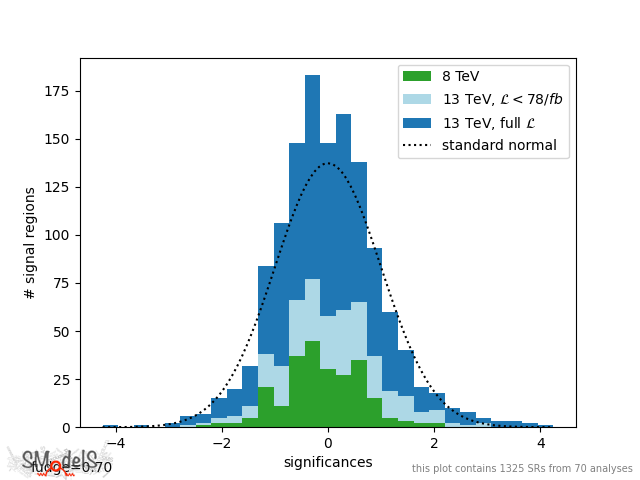
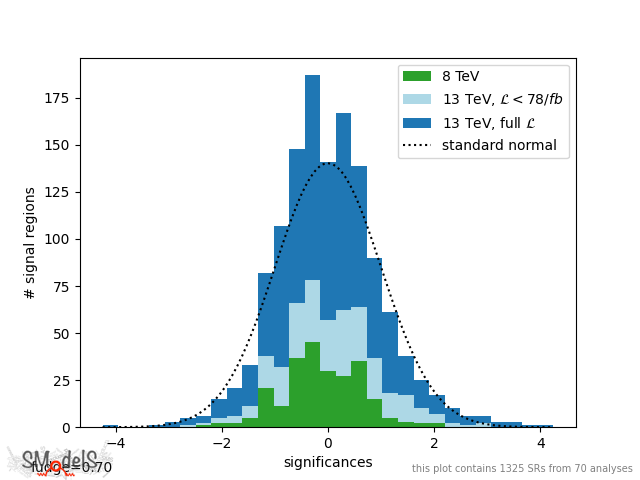
updated

diff --git a/docs/ListOfAnalyses312fastWithSuperseded.md b/docs/ListOfAnalyses312fastWithSuperseded.md
@@ -4,7 +4,7 @@ The list has been created from the database version `3.1.2fast.`
 Results from FastLim are included. There is also an  [sms dictionary](SmsDictionary312fast) and a [validation page](Validation312fast).
 Link to list of results [without superseded and fastlim results](ListOfAnalyses312fast).
 
-<p align='center'><img src='../validation/312fast/significancesiss.png?1779362420.2360446' alt='plot of significances' width='500' /><br></p>
+<p align='center'><img src='../validation/312fast/significancesiss.png?1779878661.902354' alt='plot of significances' width='500' /><br></p>
 
 ###### Plot: Significances with respect to the Standard Model hypothesis, for all signal regions [(1)](#A1). A standard normal distribution is expected if no new physics is in the data. New physics would manifest itself as an overabundance of large (positive) significances.
 
@@ -88,8 +88,8 @@ In total, we have results from 34 ATLAS and 23 CMS 8 TeV searches.
 | [CMS-SUS-21-007](http://cms-results.web.cern.ch/cms-results/public-results/publications/SUS-21-007/index.html)<a name="CMS-SUS-21-007"></a> | 1 l + top- or W-tag | 138.0 | [T1tttt](SmsDictionary312fast#T1tttt), [T5WW](SmsDictionary312fast#T5WW) | | [&#x1F517;](https://smodels.github.io/docs/Validation312fast#CMS-SUS-21-007_ul) |  |  |  |
 | [CMS-SUS-21-002](http://cms-results.web.cern.ch/cms-results/public-results/publications/SUS-21-002/)<a name="CMS-SUS-21-002"></a> | hadr. EWK | 137.0 | [TChiWH](SmsDictionary312fast#TChiWH), [TChiWW](SmsDictionary312fast#TChiWW), [TChiWZ](SmsDictionary312fast#TChiWZ), [TChiZH](SmsDictionary312fast#TChiZH) | | [&#x1F517;](https://smodels.github.io/docs/Validation312fast#CMS-SUS-21-002_ul) | [&#x1F517;](https://smodels.github.io/docs/Validation312fast#CMS-SUS-21-002_ul) | [&#x1F517;](https://smodels.github.io/docs/Validation312fast#CMS-SUS-21-002_em) | slv1 |
 | [CMS-EXO-20-008](https://cms-results.web.cern.ch/cms-results/public-results/publications/EXO-20-008/index.html)<a name="CMS-EXO-20-008"></a> | di-b resonance | 138.0 | [TRV1bb](SmsDictionary312fast#TRV1bb) | | [&#x1F517;](https://smodels.github.io/docs/Validation312fast#CMS-EXO-20-008_ul) | [&#x1F517;](https://smodels.github.io/docs/Validation312fast#CMS-EXO-20-008_ul) |  |  |
-| [CMS-SUS-20-004](http://cms-results.web.cern.ch/cms-results/public-results/publications/SUS-20-004/)<a name="CMS-SUS-20-004"></a> | 2 h(b b), EWK | 137.0 | [T5HH](SmsDictionary312fast#T5HH), [TChiHH](SmsDictionary312fast#TChiHH) | | [&#x1F517;](https://smodels.github.io/docs/Validation312fast#CMS-SUS-20-004_ul) | [&#x1F517;](https://smodels.github.io/docs/Validation312fast#CMS-SUS-20-004_ul) | [&#x1F517;](https://smodels.github.io/docs/Validation312fast#CMS-SUS-20-004_em) | slv2 |
 | [CMS-EXO-20-004](http://cms-results.web.cern.ch/cms-results/public-results/publications/EXO-20-004/)<a name="CMS-EXO-20-004"></a> | monojet | 137.0 | [TChiISR](SmsDictionary312fast#TChiISR), [TChiWISRll](SmsDictionary312fast#TChiWISRll), [TChiWWISRqq](SmsDictionary312fast#TChiWWISRqq), [TChiZISRll](SmsDictionary312fast#TChiZISRll), [TChiZISRqq](SmsDictionary312fast#TChiZISRqq), [TRS1](SmsDictionary312fast#TRS1), [TRV1](SmsDictionary312fast#TRV1), [TRV1nunu](SmsDictionary312fast#TRV1nunu) | |  |  | [&#x1F517;](https://smodels.github.io/docs/Validation312fast#CMS-EXO-20-004_em) | slv1 |
+| [CMS-SUS-20-004](http://cms-results.web.cern.ch/cms-results/public-results/publications/SUS-20-004/)<a name="CMS-SUS-20-004"></a> | 2 h(b b), EWK | 137.0 | [T5HH](SmsDictionary312fast#T5HH), [TChiHH](SmsDictionary312fast#TChiHH) | | [&#x1F517;](https://smodels.github.io/docs/Validation312fast#CMS-SUS-20-004_ul) | [&#x1F517;](https://smodels.github.io/docs/Validation312fast#CMS-SUS-20-004_ul) | [&#x1F517;](https://smodels.github.io/docs/Validation312fast#CMS-SUS-20-004_em) | slv2 |
 | [CMS-SUS-20-002](http://cms-results.web.cern.ch/cms-results/public-results/publications/SUS-20-002/index.html)<a name="CMS-SUS-20-002"></a> | stop combination | 137.0 | [T2tt](SmsDictionary312fast#T2tt), [T2ttoff](SmsDictionary312fast#T2ttoff), [T6bbWW](SmsDictionary312fast#T6bbWW) | | [&#x1F517;](https://smodels.github.io/docs/Validation312fast#CMS-SUS-20-002_ul) | [&#x1F517;](https://smodels.github.io/docs/Validation312fast#CMS-SUS-20-002_ul) |  |  |
 | [CMS-SUS-20-001](http://cms-results.web.cern.ch/cms-results/public-results/publications/SUS-20-001/index.html)<a name="CMS-SUS-20-001"></a> | SFOS l | 137.0 | [T5ZZ](SmsDictionary312fast#T5ZZ), [TChiWZ](SmsDictionary312fast#TChiWZ), [TChiZZ](SmsDictionary312fast#TChiZZ), [TSlepSlep](SmsDictionary312fast#TSlepSlep) | | [&#x1F517;](https://smodels.github.io/docs/Validation312fast#CMS-SUS-20-001_ul) | [&#x1F517;](https://smodels.github.io/docs/Validation312fast#CMS-SUS-20-001_ul) |  |  |
 | [CMS-SUS-19-013](http://cms-results.web.cern.ch/cms-results/public-results/publications/SUS-19-013/index.html)<a name="CMS-SUS-19-013"></a> | jets + boosted Z | 137.0 | [T5ZZ](SmsDictionary312fast#T5ZZ) | | [&#x1F517;](https://smodels.github.io/docs/Validation312fast#CMS-SUS-19-013_ul) | [&#x1F517;](https://smodels.github.io/docs/Validation312fast#CMS-SUS-19-013_ul) |  |  |
@@ -198,8 +198,8 @@ In total, we have results from 34 ATLAS and 23 CMS 8 TeV searches.
 | [CMS-SUS-13-012](https://cms-results.web.cern.ch/cms-results/public-results/publications/SUS-13-012/index.html)<a name="CMS-SUS-13-012"></a> | jets + MHT | 19.5 | [T1](SmsDictionary312fast#T1), [T1tttt](SmsDictionary312fast#T1tttt), [T1ttttoff](SmsDictionary312fast#T1ttttoff), [T2](SmsDictionary312fast#T2) [(4)](#A4) | | [&#x1F517;](https://smodels.github.io/docs/Validation312fast#CMS-SUS-13-012_ul) | [&#x1F517;](https://smodels.github.io/docs/Validation312fast#CMS-SUS-13-012_ul) | [&#x1F517;](https://smodels.github.io/docs/Validation312fast#CMS-SUS-13-012_em) |  |
 | [CMS-SUS-13-011](https://cms-results.web.cern.ch/cms-results/public-results/publications/SUS-13-011/index.html)<a name="CMS-SUS-13-011"></a> | 1 l + &ge; 4 (1 b-)jets | 19.5 | [T2tt](SmsDictionary312fast#T2tt), [T2ttoff](SmsDictionary312fast#T2ttoff), [T6bbWW](SmsDictionary312fast#T6bbWW), [T6bbWWoff](SmsDictionary312fast#T6bbWWoff) | | [&#x1F517;](https://smodels.github.io/docs/Validation312fast#CMS-SUS-13-011_ul) |  | [&#x1F517;](https://smodels.github.io/docs/Validation312fast#CMS-SUS-13-011_em) |  |
 | [CMS-SUS-13-007](https://cms-results.web.cern.ch/cms-results/public-results/publications/SUS-13-007/index.html)<a name="CMS-SUS-13-007"></a> | 1 l + &ge; 2 b-jets | 19.3 | [T1tttt](SmsDictionary312fast#T1tttt), [T1ttttoff](SmsDictionary312fast#T1ttttoff), [T5tttt](SmsDictionary312fast#T5tttt) | | [&#x1F517;](https://smodels.github.io/docs/Validation312fast#CMS-SUS-13-007_ul) |  | [&#x1F517;](https://smodels.github.io/docs/Validation312fast#CMS-SUS-13-007_em) |  |
-| [CMS-EXO-13-006](http://cms-results.web.cern.ch/cms-results/public-results/publications/EXO-13-006/index.html)<a name="CMS-EXO-13-006"></a> | HSCP | 18.8 | [THSCPM1b](SmsDictionary312fast#THSCPM1b) [(4)](#A4), [THSCPM2b](SmsDictionary312fast#THSCPM2b) [(4)](#A4), [THSCPM3](SmsDictionary312fast#THSCPM3) [(4)](#A4), [THSCPM4](SmsDictionary312fast#THSCPM4) [(4)](#A4), [THSCPM5](SmsDictionary312fast#THSCPM5) [(4)](#A4), [THSCPM6](SmsDictionary312fast#THSCPM6) [(4)](#A4), [THSCPM7](SmsDictionary312fast#THSCPM7) [(4)](#A4), [THSCPM8](SmsDictionary312fast#THSCPM8) [(4)](#A4), [THSCPM9](SmsDictionary312fast#THSCPM9) [(4)](#A4) | |  |  | [&#x1F517;](https://smodels.github.io/docs/Validation312fast#CMS-EXO-13-006_em) |  |
 | [CMS-SUS-13-006](https://cms-results.web.cern.ch/cms-results/public-results/publications/SUS-13-006/index.html)<a name="CMS-SUS-13-006"></a> | multi-l, EWK | 19.5 | [TChiChipmSlepL](SmsDictionary312fast#TChiChipmSlepL), [TChiChipmSlepStau](SmsDictionary312fast#TChiChipmSlepStau), [TChiWH](SmsDictionary312fast#TChiWH), [TChiWZ](SmsDictionary312fast#TChiWZ), [TChiWZoff](SmsDictionary312fast#TChiWZoff), [TSlepSlep](SmsDictionary312fast#TSlepSlep) | | [&#x1F517;](https://smodels.github.io/docs/Validation312fast#CMS-SUS-13-006_ul) |  |  |  |
+| [CMS-EXO-13-006](http://cms-results.web.cern.ch/cms-results/public-results/publications/EXO-13-006/index.html)<a name="CMS-EXO-13-006"></a> | HSCP | 18.8 | [THSCPM1b](SmsDictionary312fast#THSCPM1b) [(4)](#A4), [THSCPM2b](SmsDictionary312fast#THSCPM2b) [(4)](#A4), [THSCPM3](SmsDictionary312fast#THSCPM3) [(4)](#A4), [THSCPM4](SmsDictionary312fast#THSCPM4) [(4)](#A4), [THSCPM5](SmsDictionary312fast#THSCPM5) [(4)](#A4), [THSCPM6](SmsDictionary312fast#THSCPM6) [(4)](#A4), [THSCPM7](SmsDictionary312fast#THSCPM7) [(4)](#A4), [THSCPM8](SmsDictionary312fast#THSCPM8) [(4)](#A4), [THSCPM9](SmsDictionary312fast#THSCPM9) [(4)](#A4) | |  |  | [&#x1F517;](https://smodels.github.io/docs/Validation312fast#CMS-EXO-13-006_em) |  |
 | [CMS-SUS-13-004](https://cms-results.web.cern.ch/cms-results/public-results/publications/SUS-13-004/index.html)<a name="CMS-SUS-13-004"></a> | &ge; 1 b-jet, Razor | 19.3 | [T1bbbb](SmsDictionary312fast#T1bbbb), [T1tttt](SmsDictionary312fast#T1tttt), [T1ttttoff](SmsDictionary312fast#T1ttttoff), [T2tt](SmsDictionary312fast#T2tt), [T2ttoff](SmsDictionary312fast#T2ttoff) | | [&#x1F517;](https://smodels.github.io/docs/Validation312fast#CMS-SUS-13-004_ul) |  |  |  |
 | [CMS-SUS-13-002](https://cms-results.web.cern.ch/cms-results/public-results/publications/SUS-13-002/index.html)<a name="CMS-SUS-13-002"></a> | &ge; 3 l (+ jets) | 19.5 | [T1tttt](SmsDictionary312fast#T1tttt) | | [&#x1F517;](https://smodels.github.io/docs/Validation312fast#CMS-SUS-13-002_ul) | [&#x1F517;](https://smodels.github.io/docs/Validation312fast#CMS-SUS-13-002_ul) |  |  |
 | [CMS-EXO-12-059](https://cms-results.web.cern.ch/cms-results/public-results/publications/EXO-12-059)<a name="CMS-EXO-12-059"></a> | dijet resonance | 19.7 | [TRV1qq](SmsDictionary312fast#TRV1qq) | | [&#x1F517;](https://smodels.github.io/docs/Validation312fast#CMS-EXO-12-059_ul) | [&#x1F517;](https://smodels.github.io/docs/Validation312fast#CMS-EXO-12-059_ul) |  |  |
@@ -231,4 +231,4 @@ In total, we have results from 34 ATLAS and 23 CMS 8 TeV searches.
 <a name='A6'>(6)</a> Please note that by default we discard zeroes-only results from FastLim. To remain firmly conservative, we consider efficiencies with relative statistical uncertainties > 25% to be zero.
 
 
-This page was created Thu May 21 13:20:20 2026.
+This page was created Wed May 27 12:44:21 2026.